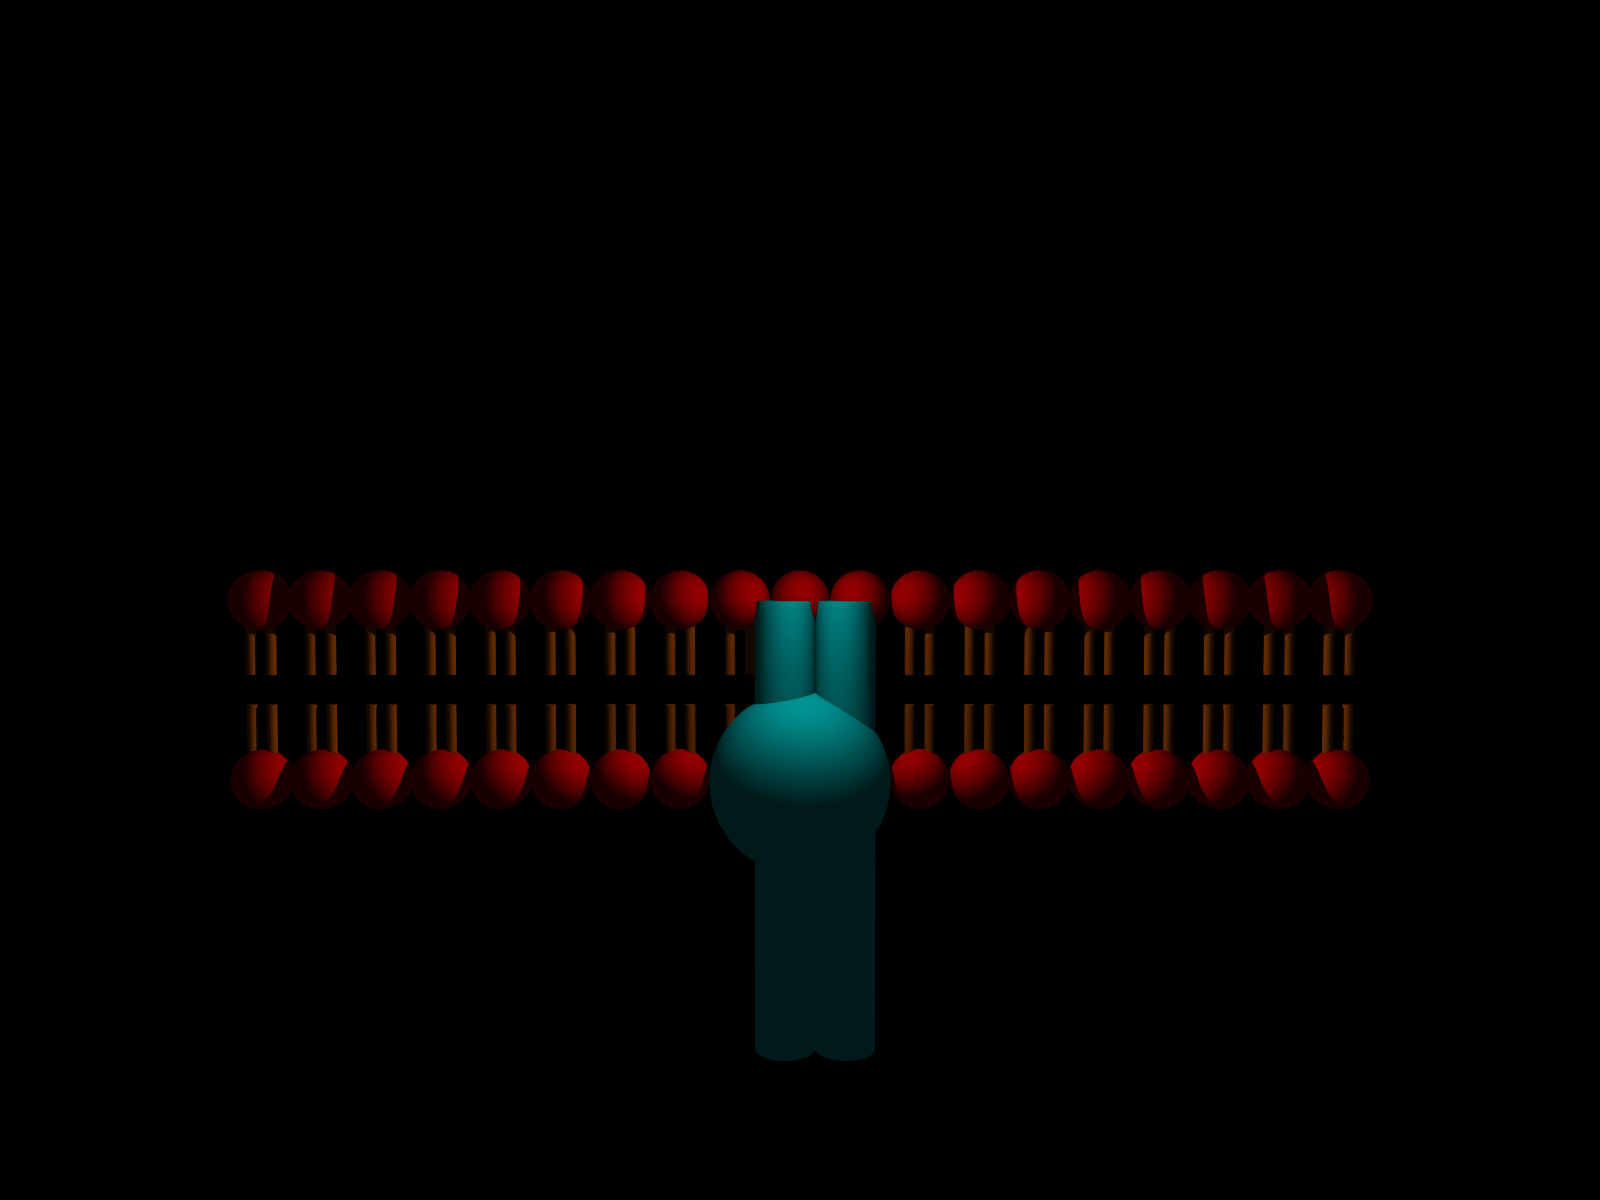
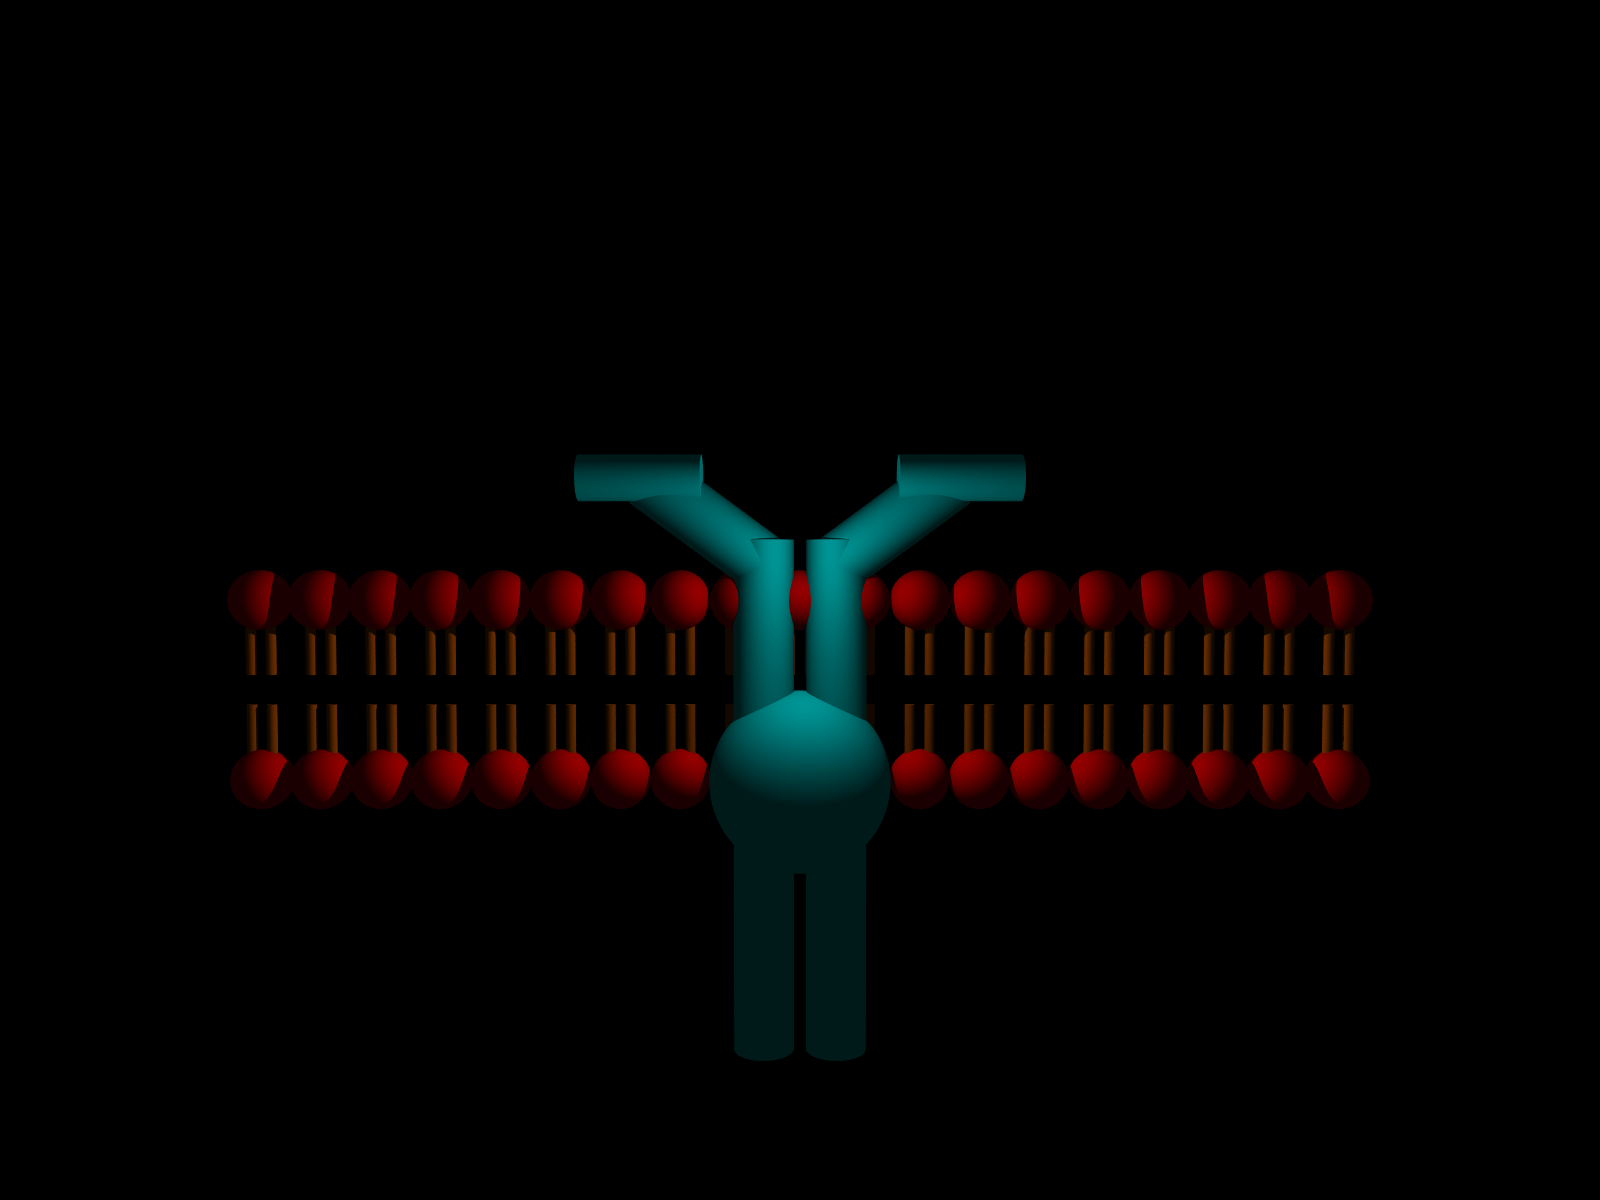
Insuline receptor added

Changed region(s): [[0.3438, 0.37, 0.6562, 0.6167], [0.4375, 0.7092, 0.5625, 0.8942]]

diff --git a/eindopdracht.py b/eindopdracht.py
@@ -28,9 +28,19 @@ def make_receptor(loc, size=5):
     z = loc[2]
 
     rec = list()
-    rec.append(Cylinder([x - size + size/2, y - size * 15, z], [x - size + size/2, y, z], size, rec_model))
-    rec.append(Cylinder([x + size + size/2, y - size * 15, z], [x + size + size/2, y, z], size, rec_model))
-    rec.append(Sphere([x, y-size * 6, z], size * 3, rec_model))
+    rec.append(Cylinder([x - size * 1.2, y - size * 15, z], [x - size * 1.2, y + size*2, z], size, rec_model))
+    rec.append(Cylinder([x + size * 1.2, y - size * 15, z], [x + size * 1.2, y + size*2, z], size, rec_model))
+    rec.append(Cylinder([x - size * 1.2, y + size * 1.2, z], [x - size * 5, y + size * 4, z], size, rec_model))
+    rec.append(Cylinder([x - size * 7.2, y + size * 4, z - size/2],
+                        [x - size * 3.2, y + size * 4, z - size/2],
+                        size / 1.321, rec_model))
+
+    rec.append(Cylinder([x + size * 1.2, y + size * 1.2, z], [x + size * 5, y + size * 4, z], size, rec_model))
+    rec.append(Cylinder([x + size * 7.2, y + size * 4, z - size/2],
+                        [x + size * 3.2, y + size * 4, z - size/2],
+                        size / 1.321, rec_model))
+
+    rec.append(Sphere([x, y - size * 6, z], size * 3, rec_model))
 
     return rec
 
